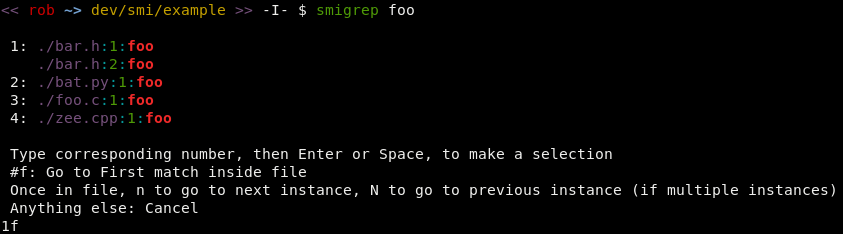
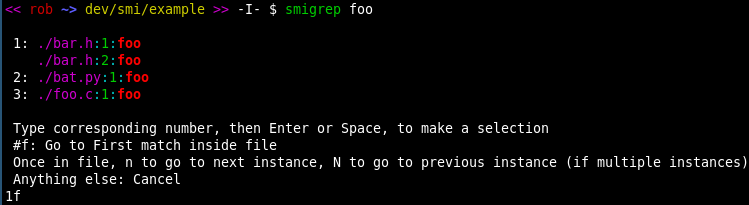
added example files

Changed region(s): [[0.0, 0.5854, 1.0, 0.9951], [0.0, 0.1756, 0.215, 0.5268], [0.0, 0.0, 0.522, 0.0878]]

diff --git a/example/bar.h b/example/bar.h
@@ -1,0 +1,5 @@
+foo
+foo
+bar
+oof
+baz

diff --git a/example/bat.py b/example/bat.py
@@ -1,0 +1,5 @@
+foo
+bar
+boo
+zee
+bat

diff --git a/example/baz.c b/example/baz.c
@@ -1,0 +1,5 @@
+bar
+baz
+zee
+eze
+bar

diff --git a/example/foo.c b/example/foo.c
@@ -1,0 +1,5 @@
+foo
+bar
+baz
+bat
+zee

diff --git a/example/zee.cpp b/example/zee.cpp
@@ -1,0 +1,5 @@
+foo
+bar
+baz
+bat
+zee
